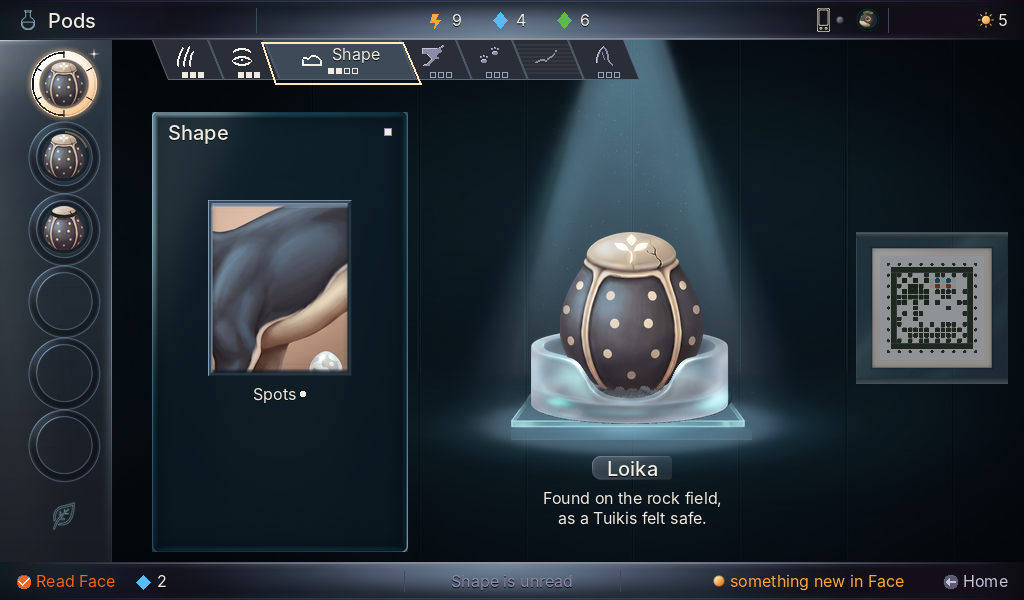
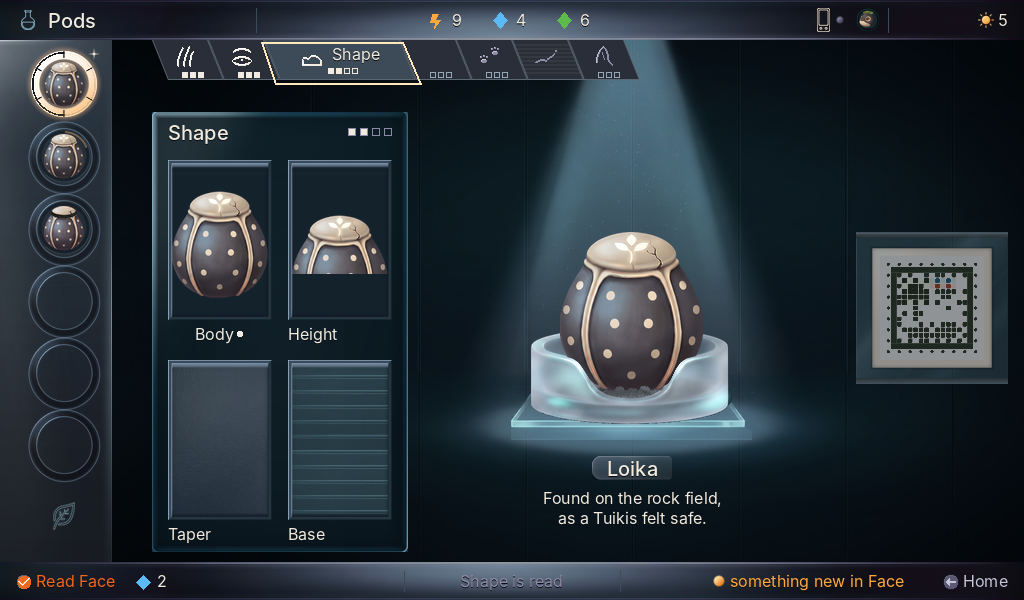
Pods masters pass 13: two tail variants for Legs and Tail, a typical Grid composite

Changed region(s): [[0.1562, 0.21, 0.4062, 0.9], [0.4375, 0.96, 0.5625, 0.99], [0.4062, 0.06, 0.4375, 0.12]]

diff --git a/art/station-masters/pods/tools/compose.py b/art/station-masters/pods/tools/compose.py
@@ -39,15 +39,19 @@ def compose(traits, rail):
     def namenew(xy, word):      # the name and the new dot centred together: the dot 4 px after the name, its centre on the line's middle (a 20 px line)
         tw = d.textlength(word, font=f16); x0 = int(xy[0] - (tw + 4 + 6) / 2)
         text((x0, xy[1]), word, f16, CREAM); put("page-mark-new-10", int(x0 + tw + 4), xy[1] + 10 - 3)
+    def shapepic(k):      # a stand-in Shape picture: the whole pod, then its upper part larger, on the stage's dark ground (never a Coat picture on the Shape page)
+        pod = S("pod-large-identified"); box = (0, 0, 144, 176) if k == 0 else (0, 0, 144, 104)
+        g = Image.new("RGBA", (104, 160), (20, 34, 44, 255)); p = pod.crop(box); sc = min(96 / p.width, 150 / p.height); p = p.resize((round(p.width * sc), round(p.height * sc)), Image.LANCZOS)
+        g.alpha_composite(p, ((104 - p.width) // 2, (160 - p.height) // 2)); return g
     pic = lambda w, h, box=(180, 166, 372, 430): cand.crop(box).resize((w, h), Image.LANCZOS)
     if traits == 1:      # one trait: a picture no larger than the pod's box, 144x176, centred in the cell
         px, py = 168 + (224 - 144) // 2, 160 + 40
         cv.alpha_composite(pic(144, 176), (px, py)); put("trait-picture-frame-144x176", px, py); namenew((280, py + 184), "Spots")
     else:
         for k, (cx, cy, st) in enumerate(((168, 160, "read"), (288, 160, "read"), (168, 360, "unread"), (288, 360, "sealed"))[:traits]):
-            if st == "read": cv.alpha_composite(pic(104, 160, (180, 166, 372, 430) if k == 0 else (200, 250, 372, 400)), (cx, cy)); put("trait-picture-frame-104x160", cx, cy)
+            if st == "read": cv.alpha_composite(shapepic(k) if rail == "compact" else pic(104, 160, (180, 166, 372, 430) if k == 0 else (200, 250, 372, 400)), (cx, cy)); put("trait-picture-frame-104x160", cx, cy)
             else: put(f"trait-picture-frame-104x160-{st}", cx, cy)
-            (namenew((cx + 52, cy + 164), "Spots") if k == 0 else text((cx, cy + 164), ("Spots", "Belly", "Flank", "Crest")[k], f16, CREAM))
+            (namenew((cx + 52, cy + 164), "Body" if rail == "compact" else "Spots") if k == 0 else text((cx, cy + 164), (("Body", "Height", "Taper", "Base") if rail == "compact" else ("Spots", "Belly", "Flank", "Crest"))[k], f16, CREAM))
     # the rail: tabs hang from the bar at y 40 and touch along their slants
     if rail == "six": tabs = [("Coat", "focused", 3), ("Face", "read", 3), ("Shape", "unread", 4), ("Legs & Tail", "unread", 3), ("Movement", "sealed", 0), ("Stamina", "unread", 3)]; open_i = None
     else: tabs = [("Coat", "read", 3), ("Face", "read", 3), ("Shape", "focused", 4), ("Legs", "unread", 3), ("Movement", "unread", 3), ("Stamina", "sealed", 0), ("Character", "unread", 3)]; open_i = 2
@@ -64,7 +68,7 @@ def compose(traits, rail):
             else: cv.alpha_composite(S(f"rail-emblem-{CID[word]}-{es}-24x24"), (int(bx), 48)); text((bx + 32, 54), word, f16, pc if st != "sealed" else MIST, "lm")
             for p in range(pips): px = int(x + 80 - pips * 4 + 8 * p); d.rectangle([px, 68, px + 5, 73], fill=pc if st in ("read", "focused") and p < 2 else None, outline=pc)
         else:
-            cv.alpha_composite(S(f"rail-emblem-{CID[word]}-{es}-24x24"), (x + 34 - 12, 44))
+            if word != "Legs": cv.alpha_composite(S(f"rail-emblem-{CID[word]}-{es}-24x24"), (x + 34 - 12, 44))        # Legs & Tail has no emblem; its compact tab shows pips only
             for p in range(min(pips, 4)): px = int(x + 42 - min(pips, 4) * 4 + 8 * p); d.rectangle([px, 72, px + 5, 77], fill=pc if st == "read" else None, outline=pc)
         x += w
     if ring:
@@ -83,10 +87,10 @@ def compose(traits, rail):
     vw = d.textlength("Read Face", font=f16); gx = int(36 + vw + 24)
     d.polygon([(gx + 4, 575), (gx + 11, 582), (gx + 4, 589), (gx - 3, 582)], fill=(91, 185, 243, 255)); text((gx + 18, 581), "2", f16, CREAM, "lm")
     hw = d.textlength("Home", font=f16); hx = int(1008 - hw - 4 - 16); put('frame-cap-back-16', hx, 574); text((1008, 581), "Home", f16, FOG, "rm")
-    text((512, 581), "Coat is read" if rail == "six" else "Shape is unread", f16, MIST, "mm")
+    text((512, 581), "Coat is read" if rail == "six" else "Shape is read", f16, MIST, "mm")
     nw = d.textlength("something new in Face", font=f16); put("frame-lamp-12-amber", int(904 - nw - 4 - 12), 575); text((904, 581), "something new in Face", f16, AMBER, "rm")
     for xx in (404, 620): d.line([(xx, 571), (xx, 591)], fill=HAIR)
     return cv.convert("RGB")
 a = compose(4, "six"); a.save("composite-pods-read-1024x600.png")
-compose(1, "compact").save("composite-pods-grid-1024x600.png")
+compose(4, "compact").save("composite-pods-grid-1024x600.png")
 side = Image.new("RGB", (2058, 600), (30, 30, 30)); side.paste(a, (0, 0)); side.paste(cand.convert("RGB"), (1034, 0)); side.save("composite-vs-candidate.png")

diff --git a/art/station-masters/pods/emblems/candidates/tail_sheet.py b/art/station-masters/pods/emblems/candidates/tail_sheet.py
@@ -1,0 +1,26 @@
+"""Legs & tail as the tail alone, two variants (tail-a.txt, tail-b.txt: typed pixel rows) drawn in the emblem manner and set on the compact tabs between Coat and
+Glow (the two emblems a confusion is most likely with), unread and read, at 1x: tail-candidates-1x.png, with a 4x proof beside it."""
+import json, os
+from PIL import Image
+HERE = os.path.dirname(os.path.abspath(__file__)); SL = os.path.join(HERE, "..", "..", "slices")
+PAL = {n: tuple(int(h[i:i + 2], 16) for i, h in [(1, h), (3, h), (5, h)][:0] or [(1, h)]) for n, h in []}
+PAL = {n: tuple(int(h[i:i + 2], 16) for i in (1, 3, 5)) for n, h in json.load(open(os.path.join(HERE, "..", "..", "..", "..", "..", "prototypes", "ui", "palettes", "station.json")))["colours"]}
+STATE = {"unread": ("mist", "fog"), "read": ("bone", "white")}
+def emblem(k, st):
+    rows = [l.rstrip("\n") for l in open(os.path.join(HERE, f"tail-{k}.txt")) if not l.startswith(";") and l.strip()]
+    assert len(rows) == 24 and all(len(r) == 24 for r in rows)
+    base, lit = STATE[st]; im = Image.new("RGBA", (24, 24), (0, 0, 0, 0))
+    for y, r in enumerate(rows):
+        for x, c in enumerate(r):
+            if c != ".": im.putpixel((x, y), PAL[lit if c == "+" else base] + (255,))
+    return im
+cols = ["coat", "tail-a", "tail-b", "glow"]
+sheet = Image.new("RGBA", (4 * 80 + 8, 2 * 48 + 8), PAL["ground"] + (255,))
+for r, st in enumerate(("unread", "read")):
+    for c, k in enumerate(cols):
+        x, y = 8 + c * 80, 8 + r * 48
+        sheet.alpha_composite(Image.open(os.path.join(SL, f"rail-tab-fill-{st}-compact-72x40.png")).convert("RGBA"), (x, y))
+        em = Image.open(os.path.join(SL, f"rail-emblem-{k}-{st}-24x24.png")).convert("RGBA") if not k.startswith("tail") else emblem(k[-1], st)
+        sheet.alpha_composite(em, (x + 34 - 12, y + 4))
+sheet.save(os.path.join(HERE, "tail-candidates-1x.png"))
+sheet.resize((sheet.width * 4, sheet.height * 4), Image.NEAREST).save(os.path.join(HERE, "tail-candidates-4x-proof.png"))

diff --git a/art/station-masters/pods/tools/status.py b/art/station-masters/pods/tools/status.py
@@ -28,7 +28,7 @@ for n in m:
     elif n in ("frame-top-bar-1024x40", "frame-bottom-line-1024x38"): sign(n, "signed", "pass 1", "excluded from placing (the frame redesign)")
     elif re.match(r"rail-emblem-(coat|face|stamina|glow|character)-", n): sign(n, "signed", "emblems round 3")
     elif re.match(r"rail-emblem-(shape|movement|charge)-", n): sign(n, "signed", "emblems round 4")
-    elif re.match(r"rail-emblem-", n): sign(n, "new", None, "Legs & tail round 6: candidate B as the art director corrected it (back line out of the left edge, hock bump, stub tail); awaiting verdict")
+    elif re.match(r"rail-emblem-", n): sign(n, "withdrawn", None, "Legs & tail: the cropped leg rejected (pass 12); the chapter becomes the tail alone, two variants on emblems/candidates/tail-candidates-1x.png; the tab shows its word until one is picked")
     elif n == "page-pane-408x440": sign(n, "withdrawn", None, "signed in pass 1, withdrawn with the page's re-layout (the Read page is 256 wide); Compare still uses 408")
     elif n == "room-stamp-case": sign(n, "withdrawn", None, "the old 176x328 size; the case is now 152x152")
     elif n == "room-stamp-case-152x152": sign(n, "signed", "pass 8 (d767daa verdict)", "with a condition: the front glass over the label (room-stamp-case-152x152-front)")

diff --git a/art/station-masters/pods/README.md b/art/station-masters/pods/README.md
@@ -49,9 +49,9 @@ Each slice is named by the register id it replaces (`room`, `ring`, `page`, `tra
 | `rail-emblem-glow-read-24x24` | 24×24 |  | signed (emblems round 3) | hand-pixelled at 24x24 on the Station palette (indexed, 62 colours, index 62 transparent); state = colour only |
 | `rail-emblem-glow-sealed-24x24` | 24×24 |  | signed (emblems round 3) | hand-pixelled at 24x24 on the Station palette (indexed, 62 colours, index 62 transparent); state = colour only |
 | `rail-emblem-glow-unread-24x24` | 24×24 |  | signed (emblems round 3) | hand-pixelled at 24x24 on the Station palette (indexed, 62 colours, index 62 transparent); state = colour only |
-| `rail-emblem-legs-tail-read-24x24` | 24×24 |  | new: Legs & tail round 6: candidate B as the art director corrected it (back line out of the left edge, hock bump, stub tail); awaiting verdict | hand-pixelled at 24x24 on the Station palette (indexed, 62 colours, index 62 transparent); state = colour only |
-| `rail-emblem-legs-tail-sealed-24x24` | 24×24 |  | new: Legs & tail round 6: candidate B as the art director corrected it (back line out of the left edge, hock bump, stub tail); awaiting verdict | hand-pixelled at 24x24 on the Station palette (indexed, 62 colours, index 62 transparent); state = colour only |
-| `rail-emblem-legs-tail-unread-24x24` | 24×24 |  | new: Legs & tail round 6: candidate B as the art director corrected it (back line out of the left edge, hock bump, stub tail); awaiting verdict | hand-pixelled at 24x24 on the Station palette (indexed, 62 colours, index 62 transparent); state = colour only |
+| `rail-emblem-legs-tail-read-24x24` | 24×24 |  | withdrawn: Legs & tail: the cropped leg rejected (pass 12); the chapter becomes the tail alone, two variants on emblems/candidates/tail-candidates-1x.png; the tab shows its word until one is picked | hand-pixelled at 24x24 on the Station palette (indexed, 62 colours, index 62 transparent); state = colour only |
+| `rail-emblem-legs-tail-sealed-24x24` | 24×24 |  | withdrawn: Legs & tail: the cropped leg rejected (pass 12); the chapter becomes the tail alone, two variants on emblems/candidates/tail-candidates-1x.png; the tab shows its word until one is picked | hand-pixelled at 24x24 on the Station palette (indexed, 62 colours, index 62 transparent); state = colour only |
+| `rail-emblem-legs-tail-unread-24x24` | 24×24 |  | withdrawn: Legs & tail: the cropped leg rejected (pass 12); the chapter becomes the tail alone, two variants on emblems/candidates/tail-candidates-1x.png; the tab shows its word until one is picked | hand-pixelled at 24x24 on the Station palette (indexed, 62 colours, index 62 transparent); state = colour only |
 | `rail-emblem-movement-read-24x24` | 24×24 |  | signed (emblems round 4) | hand-pixelled at 24x24 on the Station palette (indexed, 62 colours, index 62 transparent); state = colour only |
 | `rail-emblem-movement-sealed-24x24` | 24×24 |  | signed (emblems round 4) | hand-pixelled at 24x24 on the Station palette (indexed, 62 colours, index 62 transparent); state = colour only |
 | `rail-emblem-movement-unread-24x24` | 24×24 |  | signed (emblems round 4) | hand-pixelled at 24x24 on the Station palette (indexed, 62 colours, index 62 transparent); state = colour only |
@@ -335,6 +335,12 @@ Each slice is named by the register id it replaces (`room`, `ring`, `page`, `tra
 | `trait-picture-frame-376x264-unread` | 376×264 |  | signed (pass 4) | frost texture at 0.9 alpha under the frame |
 
 <!-- end of the generated Slices section -->
+
+## Pass 13 - the tail alone, a typical Grid composite
+
+- The cropped leg is rejected and off the rail (`rail-emblem-legs-tail-*` withdrawn; the full tab shows its word, the compact tab its pips). Legs & tail becomes the tail alone: two filled bushy tail curls, typed as rows (`emblems/candidates/tail-a.txt`, `tail-b.txt`), each rising from the lower left, lit edge upper left, open (never a ring), ending in a three-point tuft: A hooks over to the right and down, B sweeps up and to the right. They sit on the compact tabs between Coat and Glow, unread and read, at 1x on `emblems/candidates/tail-candidates-1x.png` (4x proof beside it; `tail_sheet.py` makes both). Honest reading: A reads as a hook or a cane before a tail; B as a bent arm; the tuft is the part that says tail and at 1x it is three small points. Neither is built into three-state slices yet; that waits for the art director's pick.
+- The Grid composite is now a typical chapter: four traits on the Shape page with the Shape tab open on the seven-chapter rail, a context line that agrees ("Shape is read"). The pictures are stand-ins made from the pod-large layer (the whole pod, and its upper part larger), not the Coat pictures; the four trait names (Body, Height, Taper, Base) are stand-ins too, as the Shape traits are not named in the specs I have. The Legs & Tail compact tab shows pips only.
+
 
 ## Pass 12 - the window without a horizon, the hindquarter as B corrected
 
